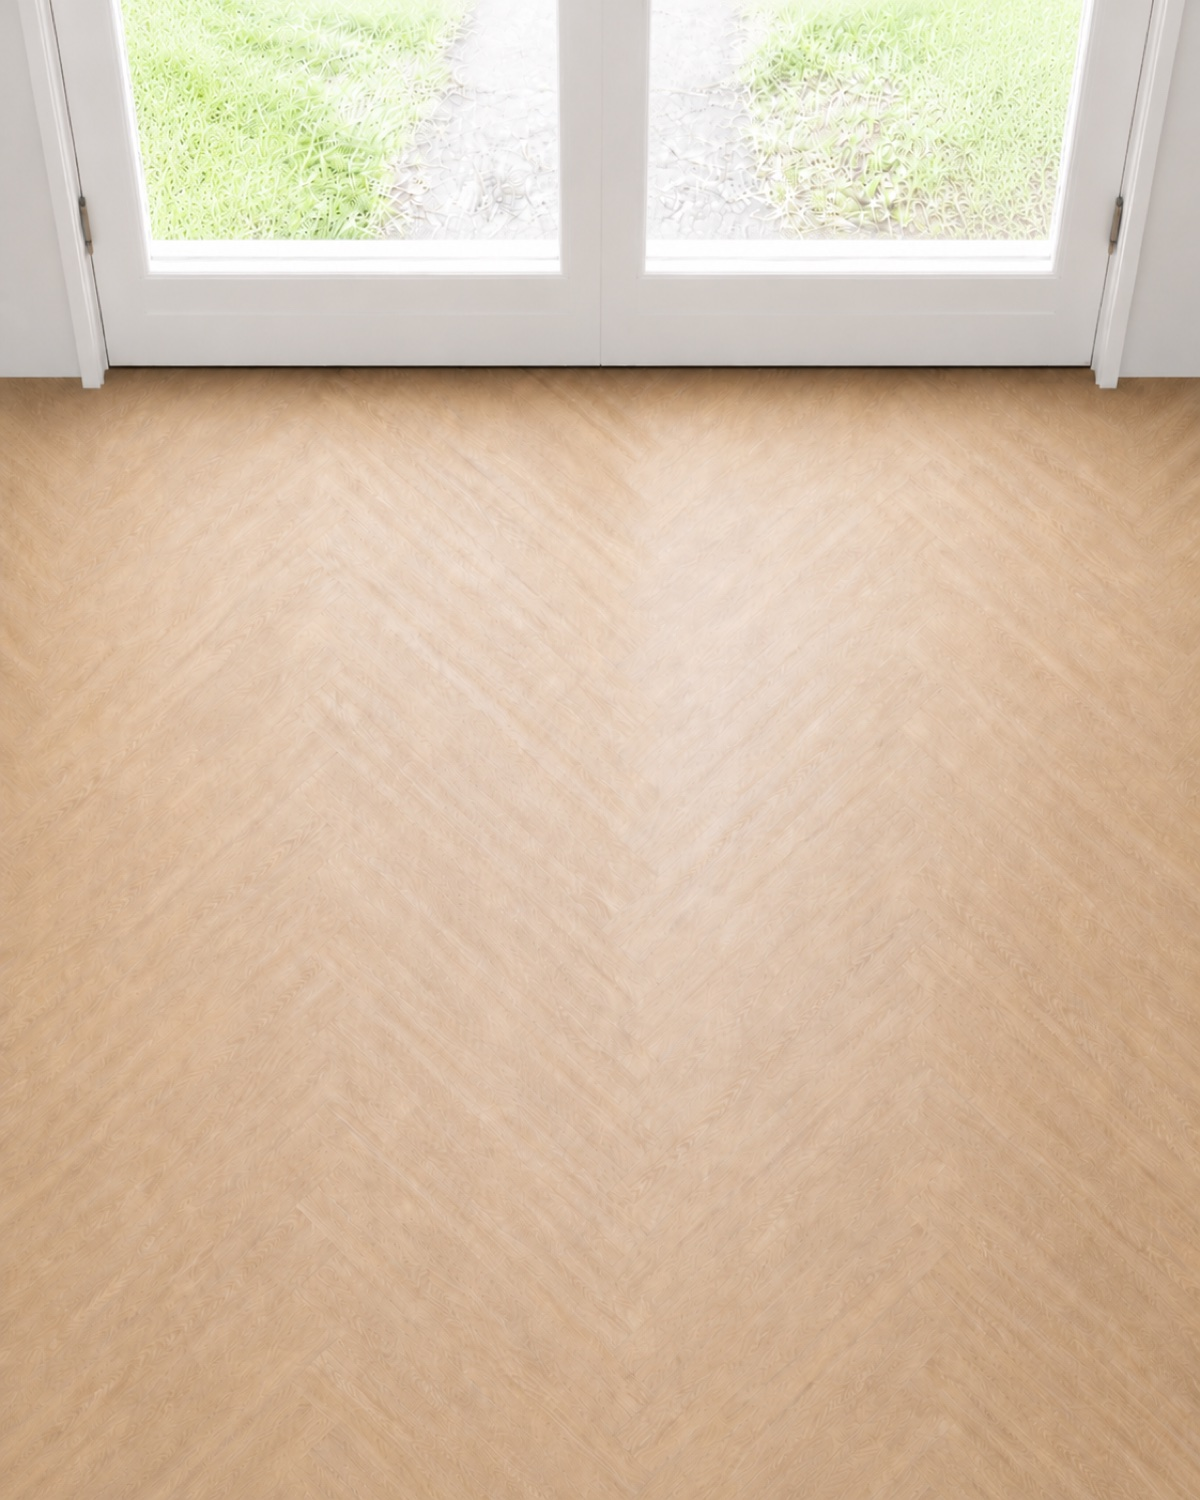
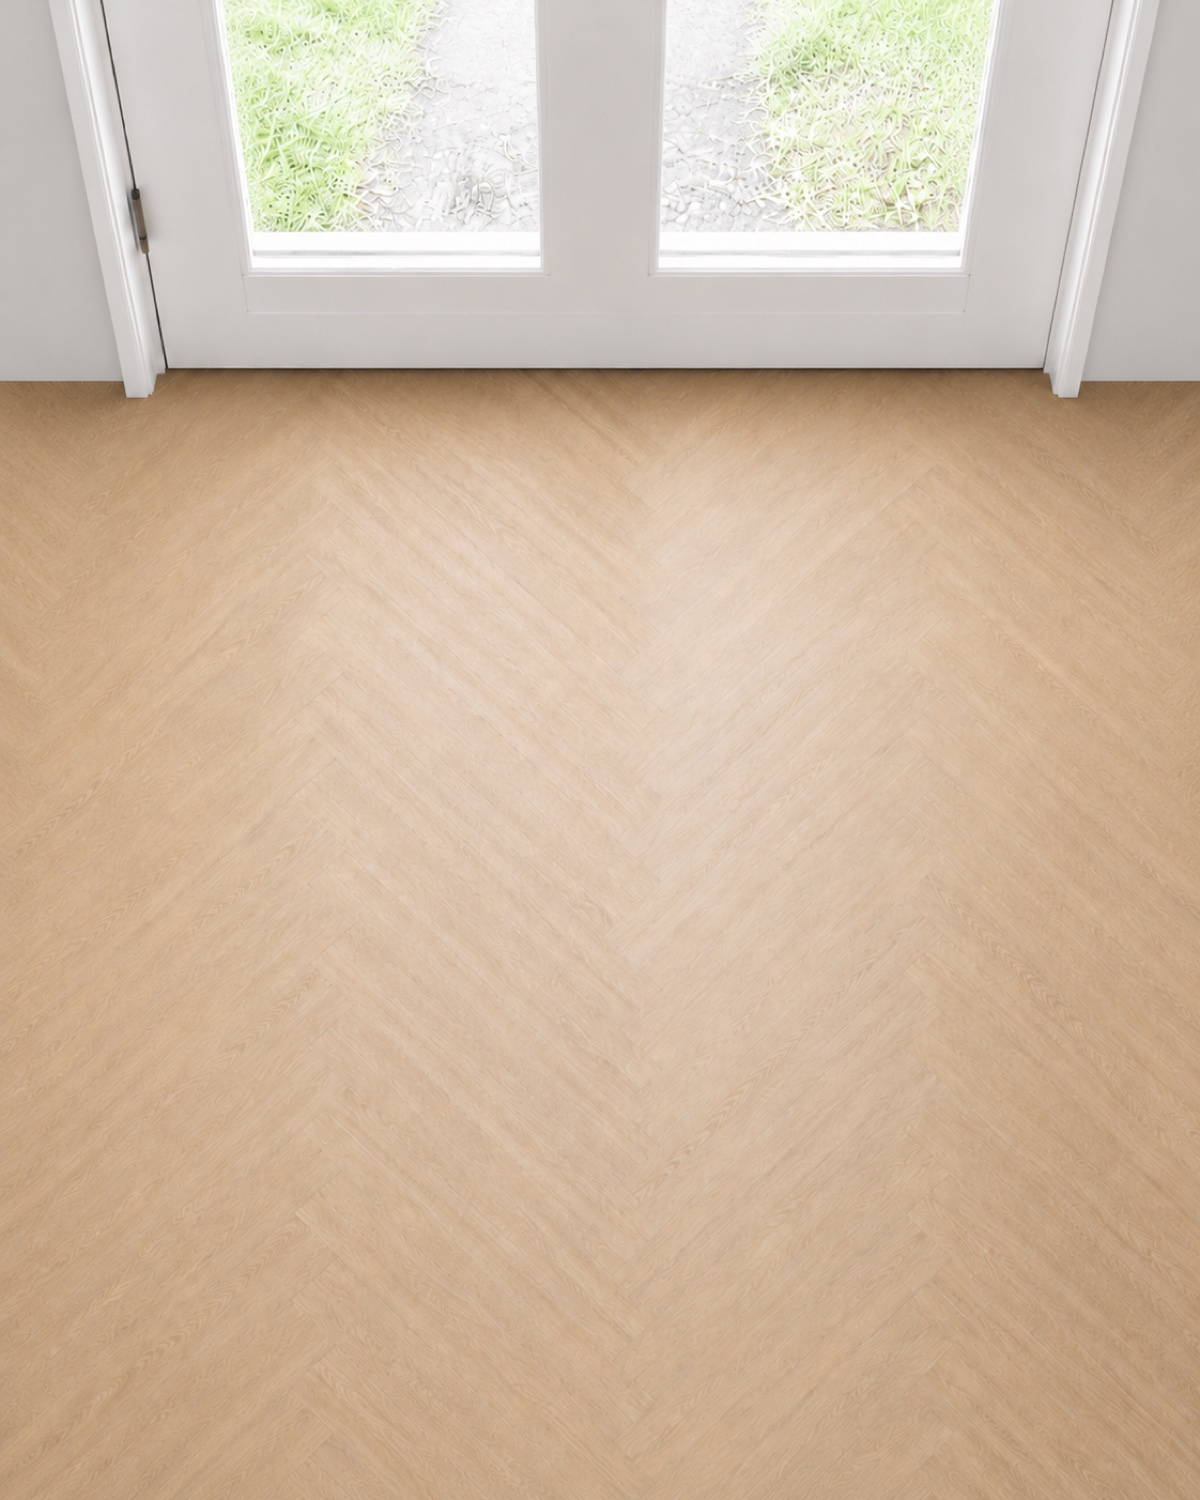
V1.7.23: Mobile-BG zurueck altes Bild + 160% Zoom fuer edge-to-edge Tuer

Changed region(s): [[0.0308, 0.0, 0.4933, 0.46], [0.4933, 0.0, 1.0, 0.3987]]

diff --git a/index.html b/index.html
@@ -14,9 +14,9 @@
   <link href="https://fonts.googleapis.com/css2?family=Outfit:wght@300;400;500;600;700&family=Playfair+Display:wght@400;700;900&display=swap" rel="stylesheet">
   <link rel="stylesheet" href="https://use.typekit.net/sgc6idq.css">
   <link rel="stylesheet" href="https://cdnjs.cloudflare.com/ajax/libs/cropperjs/1.6.2/cropper.min.css">
-  <link rel="stylesheet" href="css/base.css?v=36">
-  <link rel="stylesheet" href="css/editor.css?v=36">
-  <link rel="stylesheet" href="css/render.css?v=36">
+  <link rel="stylesheet" href="css/base.css?v=37">
+  <link rel="stylesheet" href="css/editor.css?v=37">
+  <link rel="stylesheet" href="css/render.css?v=37">
 </head>
 <body>
   <header class="preview-topbar" aria-hidden="true">
@@ -300,6 +300,6 @@
   </div>
 
   <script src="https://cdnjs.cloudflare.com/ajax/libs/cropperjs/1.6.2/cropper.min.js"></script>
-  <script type="module" src="js/main.js?v=36"></script>
+  <script type="module" src="js/main.js?v=37"></script>
 </body>
 </html>

diff --git a/css/render.css b/css/render.css
@@ -210,8 +210,8 @@
      * NICHT Teil der Druckdatei — nur Editor-Visual-Kontext.
      * Position 50% 0 zeigt Tür oben + Boden runter zum Frame. */
     background-image: url('../assets/editor-bg-mobile.jpg');
-    background-size: 100% auto;
-    background-position: 50% 15%;
+    background-size: 160% auto;
+    background-position: 50% 0%;
   }
 }
 @media (max-width: 767px) {